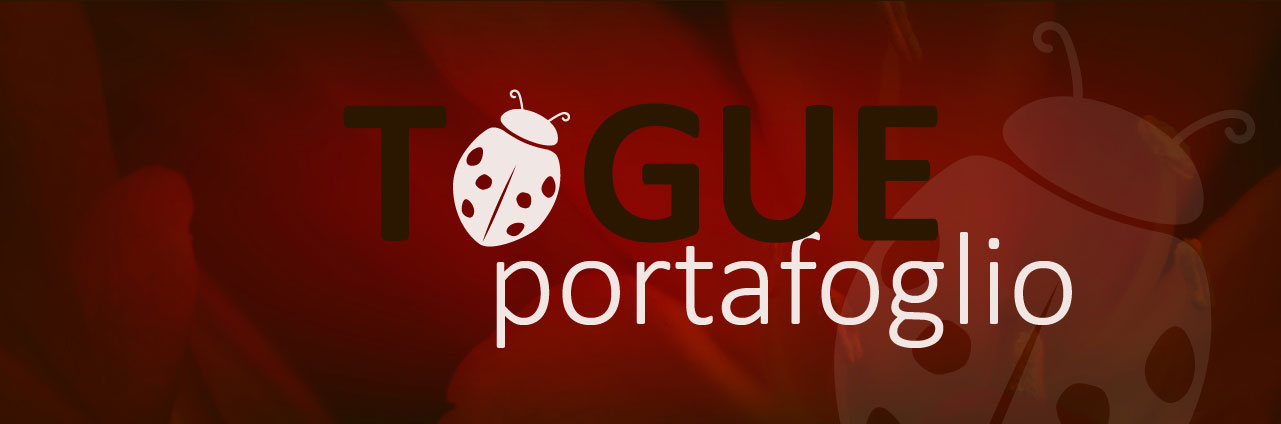
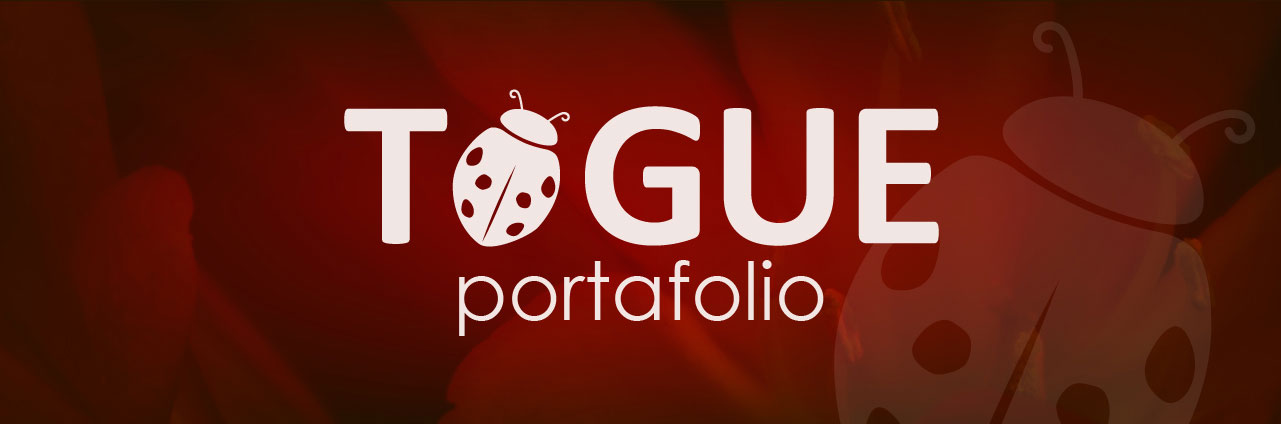
Swiap Caligrafi and design

Changed region(s): [[0.3435, 0.2453, 0.8431, 0.8278], [0.2498, 0.2453, 0.3747, 0.5825]]

diff --git a/especificaciones/especificaciones.html b/especificaciones/especificaciones.html
@@ -108,12 +108,14 @@
                                         <span class="etiqueta-categoria">Retrato Tradicional</span>
                                     </td>
                                     <td>
-                                        Enfoque minimalista, ideal para perfiles laborales, books o documentación formal. El
+                                        Enfoque minimalista, ideal para perfiles laborales, books o documentación
+                                        formal. El
                                         proceso creativo es limitado al uso de la imagen.<br><br>
                                         <strong>Ejemplo:</strong> Ropa, peinado, maquillaje y fondo sobrios inclinados a
                                         especificaciones institucionales.
                                     </td>
-                                    <td><strong>Ajustarme a las especificaciones</strong> establecidas por el cliente o la
+                                    <td><strong>Ajustarme a las especificaciones</strong> establecidas por el cliente o
+                                        la
                                         institución.</td>
                                 </tr>
                                 <tr>
@@ -121,13 +123,16 @@
                                         <span class="etiqueta-categoria">Retrato Conceptual</span>
                                     </td>
                                     <td>
-                                        Libertad creativa completamente abierta al gusto del cliente. Ofrezco asesoría si no
+                                        Libertad creativa completamente abierta al gusto del cliente. Ofrezco asesoría
+                                        si no
                                         hay un concepto definido, o integro los elementos (props) que el cliente
                                         desee.<br><br>
-                                        <strong>Ejemplo:</strong> Reunir lo necesario o brindar alternativas creativas para
+                                        <strong>Ejemplo:</strong> Reunir lo necesario o brindar alternativas creativas
+                                        para
                                         llegar al resultado esperado.
                                     </td>
-                                    <td><strong>Brindar libertad y asesoramiento</strong> para lograr plasmar exactamente lo
+                                    <td><strong>Brindar libertad y asesoramiento</strong> para lograr plasmar
+                                        exactamente lo
                                         que el cliente tiene en mente.</td>
                                 </tr>
                                 <tr>
@@ -140,7 +145,8 @@
                                         <strong>Ejemplo:</strong> Capturar instantes emotivos en cumpleaños o documentar
                                         situaciones reflexivas/entretenidas en eventos públicos.
                                     </td>
-                                    <td><strong>Adaptarme al entorno</strong>, al ambiente y a las personas que conforman el
+                                    <td><strong>Adaptarme al entorno</strong>, al ambiente y a las personas que
+                                        conforman el
                                         evento.</td>
                                 </tr>
                                 <tr>
@@ -148,7 +154,8 @@
                                         <span class="etiqueta-categoria">Producto</span>
                                     </td>
                                     <td>
-                                        Ajuste total a las necesidades del proyecto. El cliente debe contar con el producto
+                                        Ajuste total a las necesidades del proyecto. El cliente debe contar con el
+                                        producto
                                         físico y una idea base para comenzar a trabajar con mi asesoría.<br><br>
                                         <strong>Ejemplo:</strong> Diferenciar el estilo urbano de una taquería frente al
                                         ambiente cálido y familiar de una pastelería.
@@ -164,7 +171,8 @@
                                         Enfoque mucho más íntimo y personal, con total libertad creativa. No ofrezco
                                         servicios por encargo aquí, únicamente pongo a la venta mis fotografías de
                                         autor.<br><br>
-                                        <strong>Ejemplo:</strong> Fotografiar detalles, viajes y momentos con significado
+                                        <strong>Ejemplo:</strong> Fotografiar detalles, viajes y momentos con
+                                        significado
                                         invisible, seleccionando mis favoritas para la tienda.
                                     </td>
                                     <td><strong>Tener la libertad absoluta</strong> de capturar lo que me inspira y

diff --git a/css/estilos.css b/css/estilos.css
@@ -1,9 +1,10 @@
 /* =========================================
    1. ESTILOS GENERALES Y TIPOGRAFÍAS
 ========================================= */
-/* REQUISITO: Tipografía Calibri light para cuerpo y Edwardian Script ITC para apartados */
+/* REQUISITO: Tipografía Century Gothic Regular para cuerpo y Calibri Bold para apartados/subtemas */
 body {
-    font-family: 'Calibri Light', Calibri, sans-serif;
+    font-family: 'Century Gothic', sans-serif;
+    font-weight: normal;
     line-height: 1.6;
     font-size: 1.1em;
     background-color: #fcfcfc;
@@ -16,16 +17,17 @@ body {
 
 /* Títulos artísticos con la fuente solicitada */
 .titulo-artistico {
-    font-family: 'Edwardian Script ITC', 'Brush Script MT', cursive;
+    font-family: 'Calibri', sans-serif;
     font-size: 3.5rem;
     color: #1a1a1a;
     text-align: center;
     margin-bottom: 15px;
-    font-weight: normal;
+    font-weight: bold;
 }
 
 .texto-cuerpo {
-    font-family: 'Calibri Light', Calibri, sans-serif;
+    font-family: 'Century Gothic', sans-serif;
+    font-weight: normal;
     font-size: 1.15rem;
     margin-bottom: 20px;
     line-height: 1.8;
@@ -91,7 +93,7 @@ body {
     padding: 16px 10px;
     display: block;
     text-align: center;
-    font-family: 'Calibri Light', Calibri, sans-serif;
+    font-family: 'Century Gothic', sans-serif;
     letter-spacing: 1px;
     font-weight: bold;
     font-size: 0.95rem;
@@ -133,7 +135,8 @@ body {
 }
 
 .tarjeta-resumen-area h3 {
-    font-family: 'Edwardian Script ITC', 'Brush Script MT', cursive;
+    font-family: 'Calibri', sans-serif;
+    font-weight: bold;
     font-size: 2.2rem;
     margin: 0;
     color: #333;
